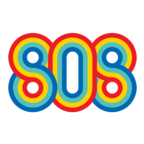
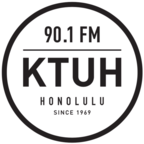
Begin KTUHization Phase 01

diff --git a/imports/ui/components/includes/header.html b/imports/ui/components/includes/header.html
@@ -1,7 +1,7 @@
 <template name='header'>
   <nav class='navbar navbar-default' role='navigation'>
     <div class='info-box'>
-      <a href='/'><img class='logo-img' src='/img/808-mixtapes-logo.png'></a>
+      <a href='/'><img class='logo-img' src='/img/ktuh-logo.jpg'></a>
     </div>
     <div class='navbar-header'>
       <button type='button' class='navbar-toggle collapsed' data-toggle='collapse' data-target='#navigation'>
